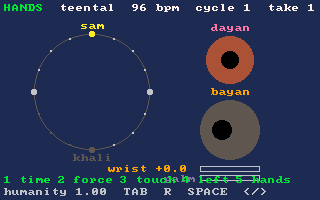
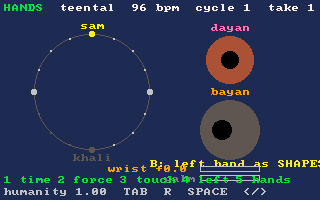
tablahand: the left hand as shapes on each booked ge (the bayan boom, the wrist, the palm)
The end of NoteOpts step 3's acceptance. Each ge now books its left hand
as up to three shapes instead of riding the bayan's slot every frame:
the BOOM (the measured hold-then-drop, +4.8 semitones held 90 ms then
falling by 190 ms, the curve one AD envelope could not draw), the wrist
gesture (press / wail / dip / meend as pitch shapes, scaled and stretched
per stroke) and the palm (a gain shape stretched to when it comes down),
with the slot's own chirp turned down per note. Pitch track: holds
~108-112 Hz for ~90 ms then falls (real dhin: holds 117, falls to 89);
the old riding version, kept on B and byte-identical, fell at once. No
slot riding, so it no longer depends on there being one bayan. (Its
index.json entry landed with d114df7c.)

Changed region(s): [[0.4688, 0.78, 0.8438, 0.84], [0.875, 0.78, 1.0, 0.84]]

diff --git a/tools/carts/tablahand.c b/tools/carts/tablahand.c
@@ -17,7 +17,7 @@
   "description": {
     "summary": "Teental on a tabla played by two HANDS instead of a step grid: every bol is a stroke with its own force, timing and spot on the head, dha lands as two hands a few ms apart, the bayan's pitch rises when the wrist presses and sinks when it lets go. TAB flips to the grid version.",
     "detail": "The vocabulary: na/ta ring on the rim, tin rings on the head, ti/te/ra are closed strokes that stop at once, ge is the open bass whose pitch the wrist bends, ke is the flat closed bass slap; dha = na + ge, dhin = tin + ge. THE LEFT HAND keeps playing after it strikes: each ge gets a wrist gesture (press: up and back; wail: the gumki, up-down-up while it rings; dip: struck pressed, then let go so the pitch falls; meend: a late slow rise; or flat) and a palm that comes down to damp it, soon or late, lightly or fully, and lifts again just before the next stroke. The right hand's resting fingers press a little differently each stroke, so the ring length varies. The hands: the left and right of a dha almost never land together, a fast run like ti-ra-ki-ta is uneven (long-short) with its inner strokes softer, a hand striking twice quickly is a little late and softer the second time, and where each finger lands drifts slowly. The cycle: sam (beat 1) leans hardest, the khali section is lighter and has no bass, every fourth cycle plays a fill, a tihai (one figure three times, landing on sam) or a ke-heavy variation, in turn. Keys 1-5 switch each layer on and off.",
-    "controls": "SPACE play/stop · TAB hands / grid · 1 time 2 force 3 touch 4 left 5 hands · UP/DOWN humanity · LEFT/RIGHT tempo · R new take"
+    "controls": "SPACE play/stop · TAB hands / grid · B left hand as shapes / riding · 1 time 2 force 3 touch 4 left 5 hands · UP/DOWN humanity · LEFT/RIGHT tempo · R new take"
   }
 }
 de:meta */
@@ -48,6 +48,7 @@ de:meta */
 
 #define DAYAN 62        // the treble drum tuned to D
 #define BAYAN 38        // the bass drum, two octaves and a bit under
+enum { SH_BOOM = 10, SH_PRESS, SH_WAIL, SH_DIP, SH_MEEND, SH_PALM };   // the left hand's shapes (step 3)
 
 // ---- strokes ----
 enum { R_NONE, R_NA, R_TIN, R_TE, R_RA };      // right hand on the dayan
@@ -84,6 +85,7 @@ enum { L_TIME, L_FORCE, L_TOUCH, L_GLIDE, L_HANDS, NLAYER };
 static const char *LAYER_NAME[NLAYER] = { "time", "force", "touch", "left", "hands" };
 
 static bool  playing = true, human = true;
+static bool  ride_mode = false;   // B: the OLD left hand, riding the bayan slot every frame (instrument_tune / _level)
 static bool  layer[NLAYER] = { true, true, true, true, true };
 static float humanity = 1.0f;
 static int   tempo = 96;
@@ -135,6 +137,14 @@ static void setup_sound(void) {
     // bayan: looser, a deeper chirp; the closed slap is a flat thud
     instrument(B_OPEN, INSTR_MEMBRANE, 1, 0, 7, 420);
     instrument_harmonics(B_OPEN, 0.22f); instrument_timbre(B_OPEN, 0.30f); instrument_morph(B_OPEN, 0.30f);
+    // THE LEFT HAND AS SHAPES (NoteOpts step 3): every ge carries its own gestures, no slot riding.
+    // Pitch shapes in cents (the wrist ones per semitone of "amount", scaled per stroke).
+    { float t[] = {0, 90, 190},                v[] = {480, 480, 0};          shape_define(SH_BOOM,  3, t, v, SHAPE_EASE); }  // measured: holds ~90 ms, falls ~5 st by ~170 ms
+    { float t[] = {0, 150, 300, 900, 1500},    v[] = {0, 100, 100, 15, 0};   shape_define(SH_PRESS, 5, t, v, SHAPE_EASE); }
+    { float t[] = {0, 250, 500, 750, 1100, 1700}, v[] = {0, 100, 20, 80, 15, 0}; shape_define(SH_WAIL, 6, t, v, SHAPE_EASE); }  // up, down, up
+    { float t[] = {0, 100, 400},               v[] = {100, 40, 0};           shape_define(SH_DIP,   3, t, v, SHAPE_FAST); }  // struck pressed, let go
+    { float t[] = {0, 120, 700},               v[] = {0, 0, 100};            shape_define(SH_MEEND, 3, t, v, SHAPE_EASE); }  // a late, slow rise
+    { float t[] = {0, 1000, 1150},             v[] = {0, 0, 1};              shape_define(SH_PALM,  3, t, v, SHAPE_LINEAR); } // dB per unit of scale; stretched to damp_at
     instrument(B_SHUT, INSTR_MEMBRANE, 1, 0, 7, 25);
     instrument_harmonics(B_SHUT, 0.75f); instrument_timbre(B_SHUT, 0.55f); instrument_morph(B_SHUT, 0.0f);
     instrument_choke(D_SHUT, D_OPEN);       // a closed stroke stops the ringing head
@@ -218,7 +228,28 @@ static void play_bol(const Bol *b, double t, float accent, bool inner, int sub, 
         float f = force * 0.95f;
         if (K && last_l > 0 && tl - last_l < 0.13) { tl += 0.006 * H; f *= 1.0f - 0.15f * H; }
         float pos = C ? (drift(t, 0.5f) * 0.05f + r1() * 0.03f) * H : 0;
-        if (b->l == L_GE) {
+        if (b->l == L_GE && human && !ride_mode) {
+            // SHAPES: the boom (the drum's own hold-then-drop) + the wrist gesture + the palm, all booked
+            NoteOpts o = { .gain = f < 0.04f ? 0.04f : f, .timbre = pos, .morph = -0.25f };   // the slot's chirp down: the boom replaces it
+            int k = 0;
+            o.shape[k++] = (NoteShape){ SH_BOOM, SHP_PITCH, 0.85f + 0.3f * f };
+            if (G) {
+                float u = rnd_float();
+                int g = u < 0.12f ? G_FLAT : u < 0.42f ? G_PRESS : u < 0.62f ? G_WAIL : u < 0.82f ? G_DIP : G_MEEND;
+                if (accent >= 0.99f && rnd_float() < 0.6f) g = G_WAIL;
+                float amount = (0.6f + 2.0f * rnd_float()) * (0.6f + 0.4f * accent) * H;
+                float speed = 0.08f + 0.2f * rnd_float();
+                float damp_at = 0.12f + 0.6f * rnd_float() * rnd_float(), damp_to = 0.08f + 0.5f * rnd_float();
+                if (g == G_WAIL) { damp_at += 0.4f; speed = 0.25f + 0.2f * rnd_float(); }
+                int sid = g == G_PRESS ? SH_PRESS : g == G_WAIL ? SH_WAIL : g == G_DIP ? SH_DIP : g == G_MEEND ? SH_MEEND : 0;
+                float st = g == G_PRESS ? speed / 0.15f : g == G_WAIL ? speed / 0.25f : speed / 0.2f;
+                if (sid) o.shape[k++] = (NoteShape){ (unsigned char)sid, SHP_PITCH, amount, st };
+                o.shape[k++] = (NoteShape){ SH_PALM, SHP_GAIN, 20.0f * log10f(damp_to), damp_at };
+                LeftEv e = { tl, g, amount, speed, damp_at, damp_to };       // for the display only
+                left[nleft % NLEFT] = e; nleft++;
+            }
+            schedule_note_at(tl, BAYAN, B_OPEN, 7, 1400, &o);
+        } else if (b->l == L_GE) {
             stroke(B_OPEN, BAYAN, tl, f, pos, 0, 1400, 0);
             if (G) {
                 // choose what the wrist does: strong beats press and wail, light ones stay flat
@@ -332,19 +363,25 @@ static void ride_left(void) {
 #ifdef PROBE_NO_WRIST
     semi = 0;
 #endif
+    shown_glide = semi; shown_palm = 1.0f - level;
+    if (!ride_mode && human) { semi = 0; level = 1; }   // SHAPES carry the left hand now: the slot stays neutral
     if (fabsf(semi - tune_last) > 0.01f)   { instrument_tune(B_OPEN, semi); tune_last = semi; }
     if (fabsf(level - level_last) > 0.01f) { instrument_level(B_OPEN, level); level_last = level; }
-    shown_glide = semi; shown_palm = 1.0f - level;
+    if (ride_mode || !human) { shown_glide = semi; shown_palm = 1.0f - level; }
 }
 
 void init(void) {
     setup_sound();
     new_take();
+#ifdef RIDE_MODE
+    ride_mode = true;
+#endif
 }
 
 void update(void) {
     if (keyp(KEY_SPACE)) { playing = !playing; t_beat = audio_time() + 0.15; }
     if (keyp(KEY_TAB)) human = !human;
+    if (keyp('B')) ride_mode = !ride_mode;
     for (int i = 0; i < NLAYER; i++) if (keyp('1' + i)) layer[i] = !layer[i];
     if (keyp(KEY_UP))    humanity = fminf(1.5f, humanity + 0.25f);
     if (keyp(KEY_DOWN))  humanity = fmaxf(0.0f, humanity - 0.25f);
@@ -363,6 +400,7 @@ void draw(void) {
     cls(CLR_DARK_BLUE);
     double at = audio_time();
     print(human ? "HANDS" : "GRID", 4, 4, human ? CLR_GREEN : CLR_RED);
+    if (human) print(ride_mode ? "B: left hand RIDES the slot" : "B: left hand as SHAPES", 150, 160, ride_mode ? CLR_DARK_GREY : CLR_YELLOW);
     print(str("teental  %d bpm  cycle %d  take %d", tempo, cycle + 1, seed), 60, 4, CLR_WHITE);
 
     // the cycle: 16 beats round a circle, sam at the top; strokes land as dots

diff --git a/docs/design/humanized-playing.md b/docs/design/humanized-playing.md
@@ -651,8 +651,13 @@ Engine side this needs `sound_retrig_voice` to cover BOWED and a signed bow velo
    `stretch` 2 moves the peak to 1 s; a cutoff +2 -> 0 oct takes the centroid 1064 -> 437 Hz. Byte-
    identical for every cart without shapes. Acceptance: booked `breathflute` defines a scoop, a messa di
    voce, a breath fade and the tongue's puff once and scales / stretches them per note (onsets now start
-   below pitch, level spread across notes 4.6 -> 6.3 dB, settled within ~2 c). Still open with it: the
-   bayan drop booked (`tablahand`).
+   below pitch, level spread across notes 4.6 -> 6.3 dB, settled within ~2 c). And `tablahand`'s left
+   hand is now SHAPES on each booked ge: the BOOM (the measured hold-then-drop: +4.8 st held 90 ms,
+   falling by 190 ms, the curve one AD envelope could not draw), the wrist gesture (press / wail / dip /
+   meend) and the palm (a gain shape stretched to its moment), with the slot's own chirp turned down
+   per note. Pitch track: holds ~108-112 Hz for ~90 ms then falls (the real dhin holds 117, falls to 89);
+   the old per-frame slot riding (kept on B, byte-identical) fell at once from 96 Hz. No slot riding,
+   so it no longer depends on there being ONE bayan.
 4. Lanes. Acceptance: `pianohand`'s pedal as `LANE_DAMPER`, `synthhand`'s knob as `LANE_CUTOFF`,
    `drumhand`'s hi-hat pedal.
 5. Note events. Acceptance: `cellohand`'s bow change booked, with BOWED retrig.
